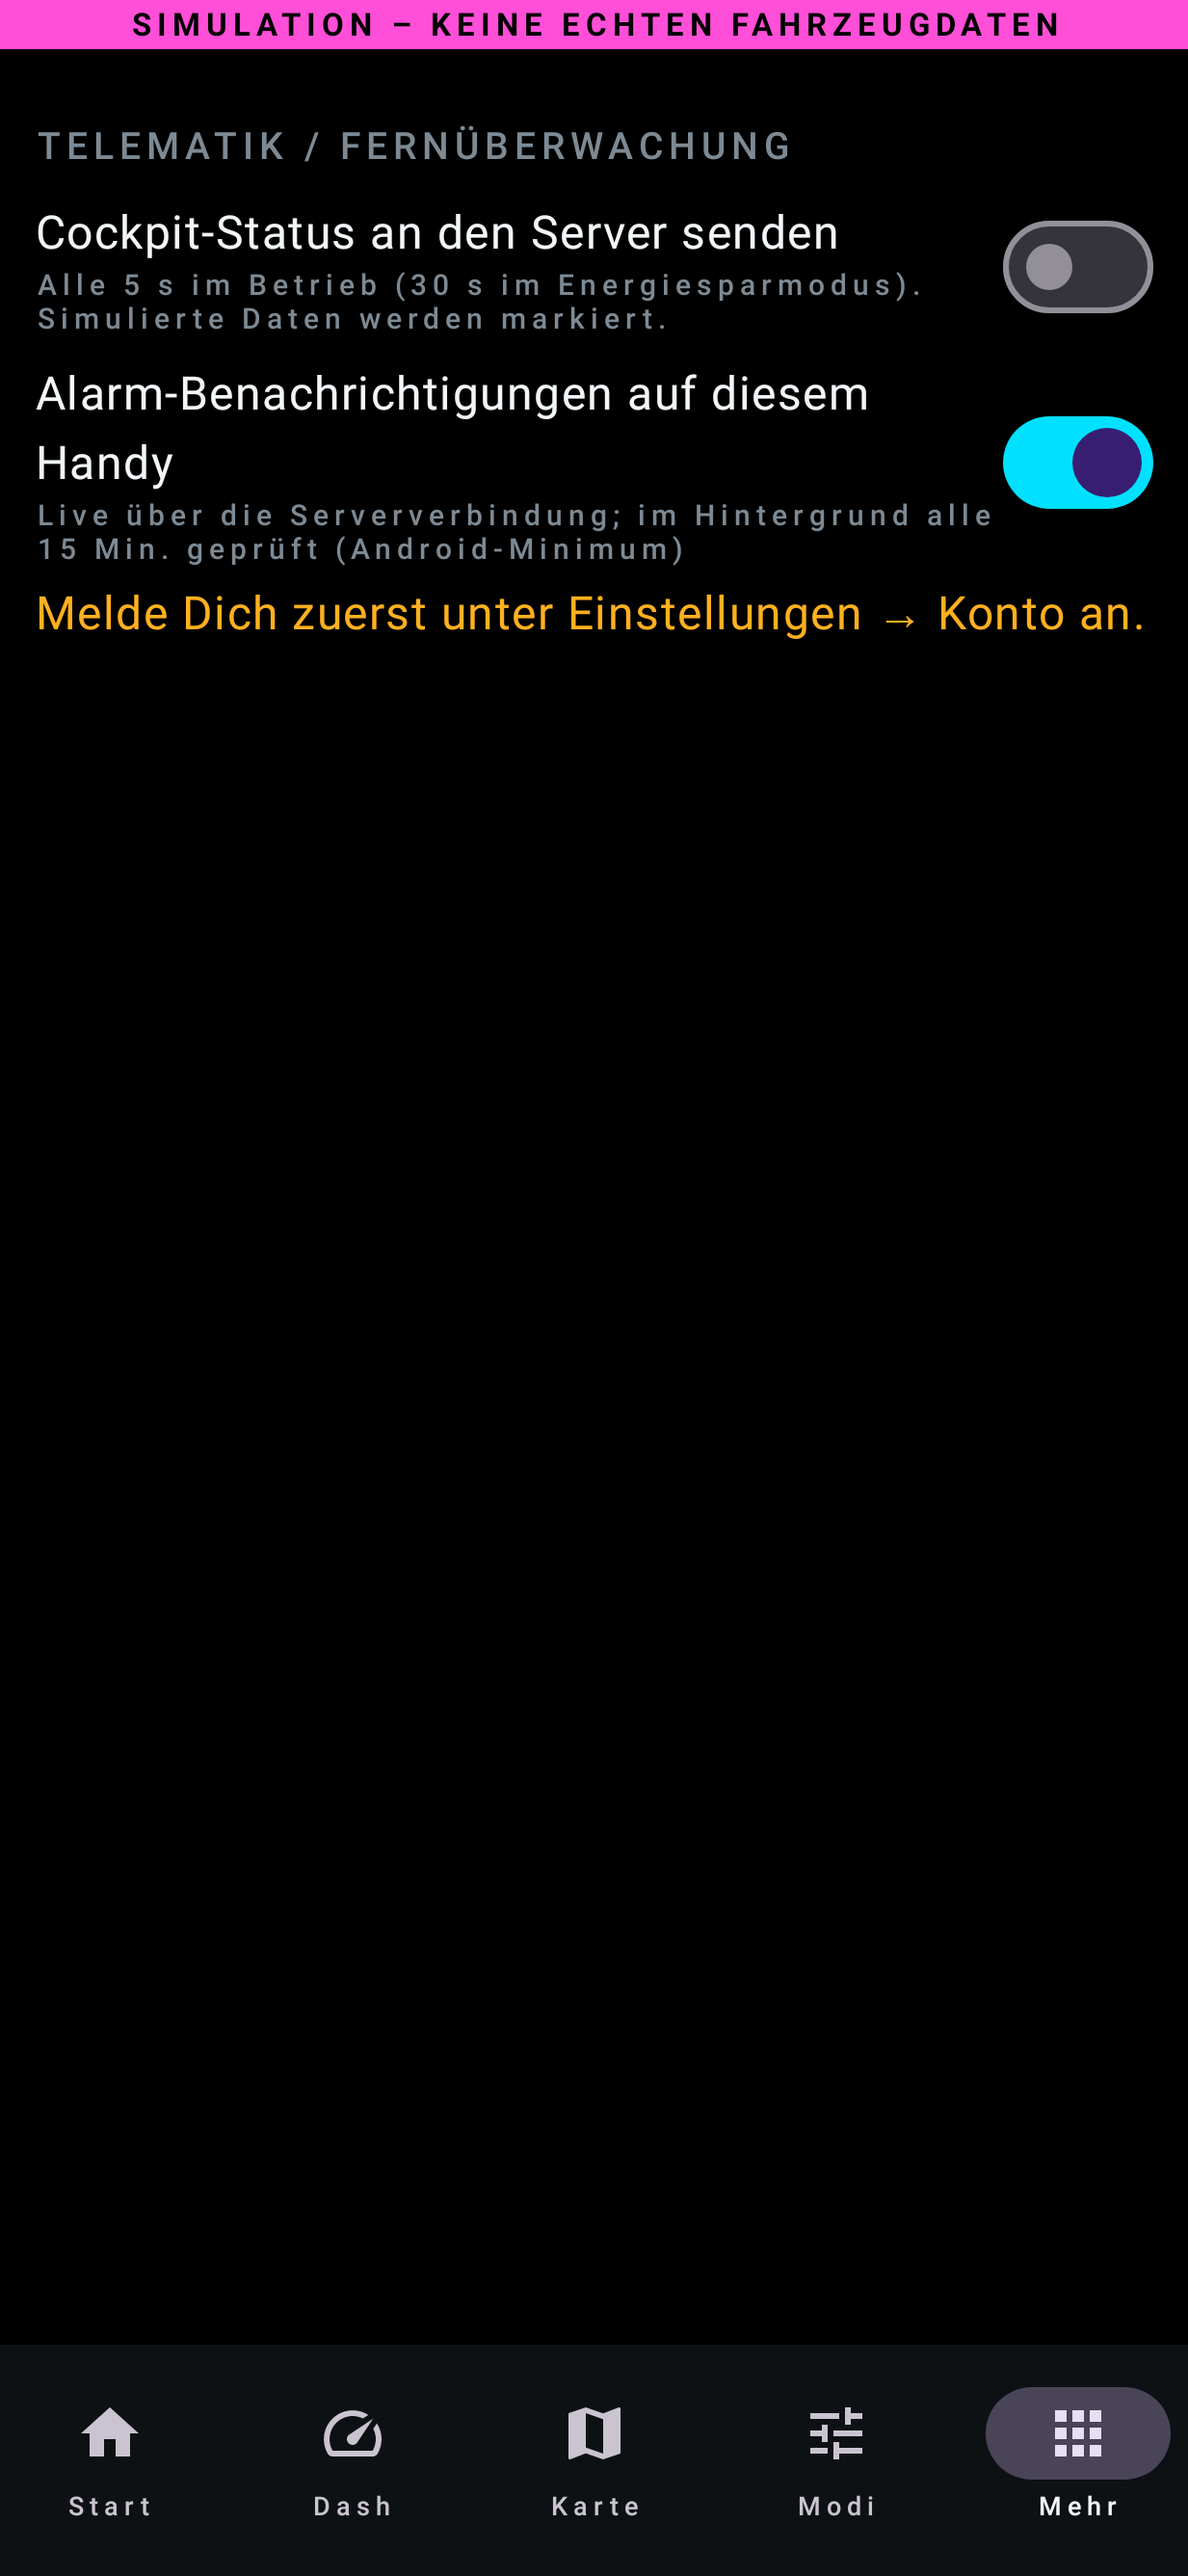
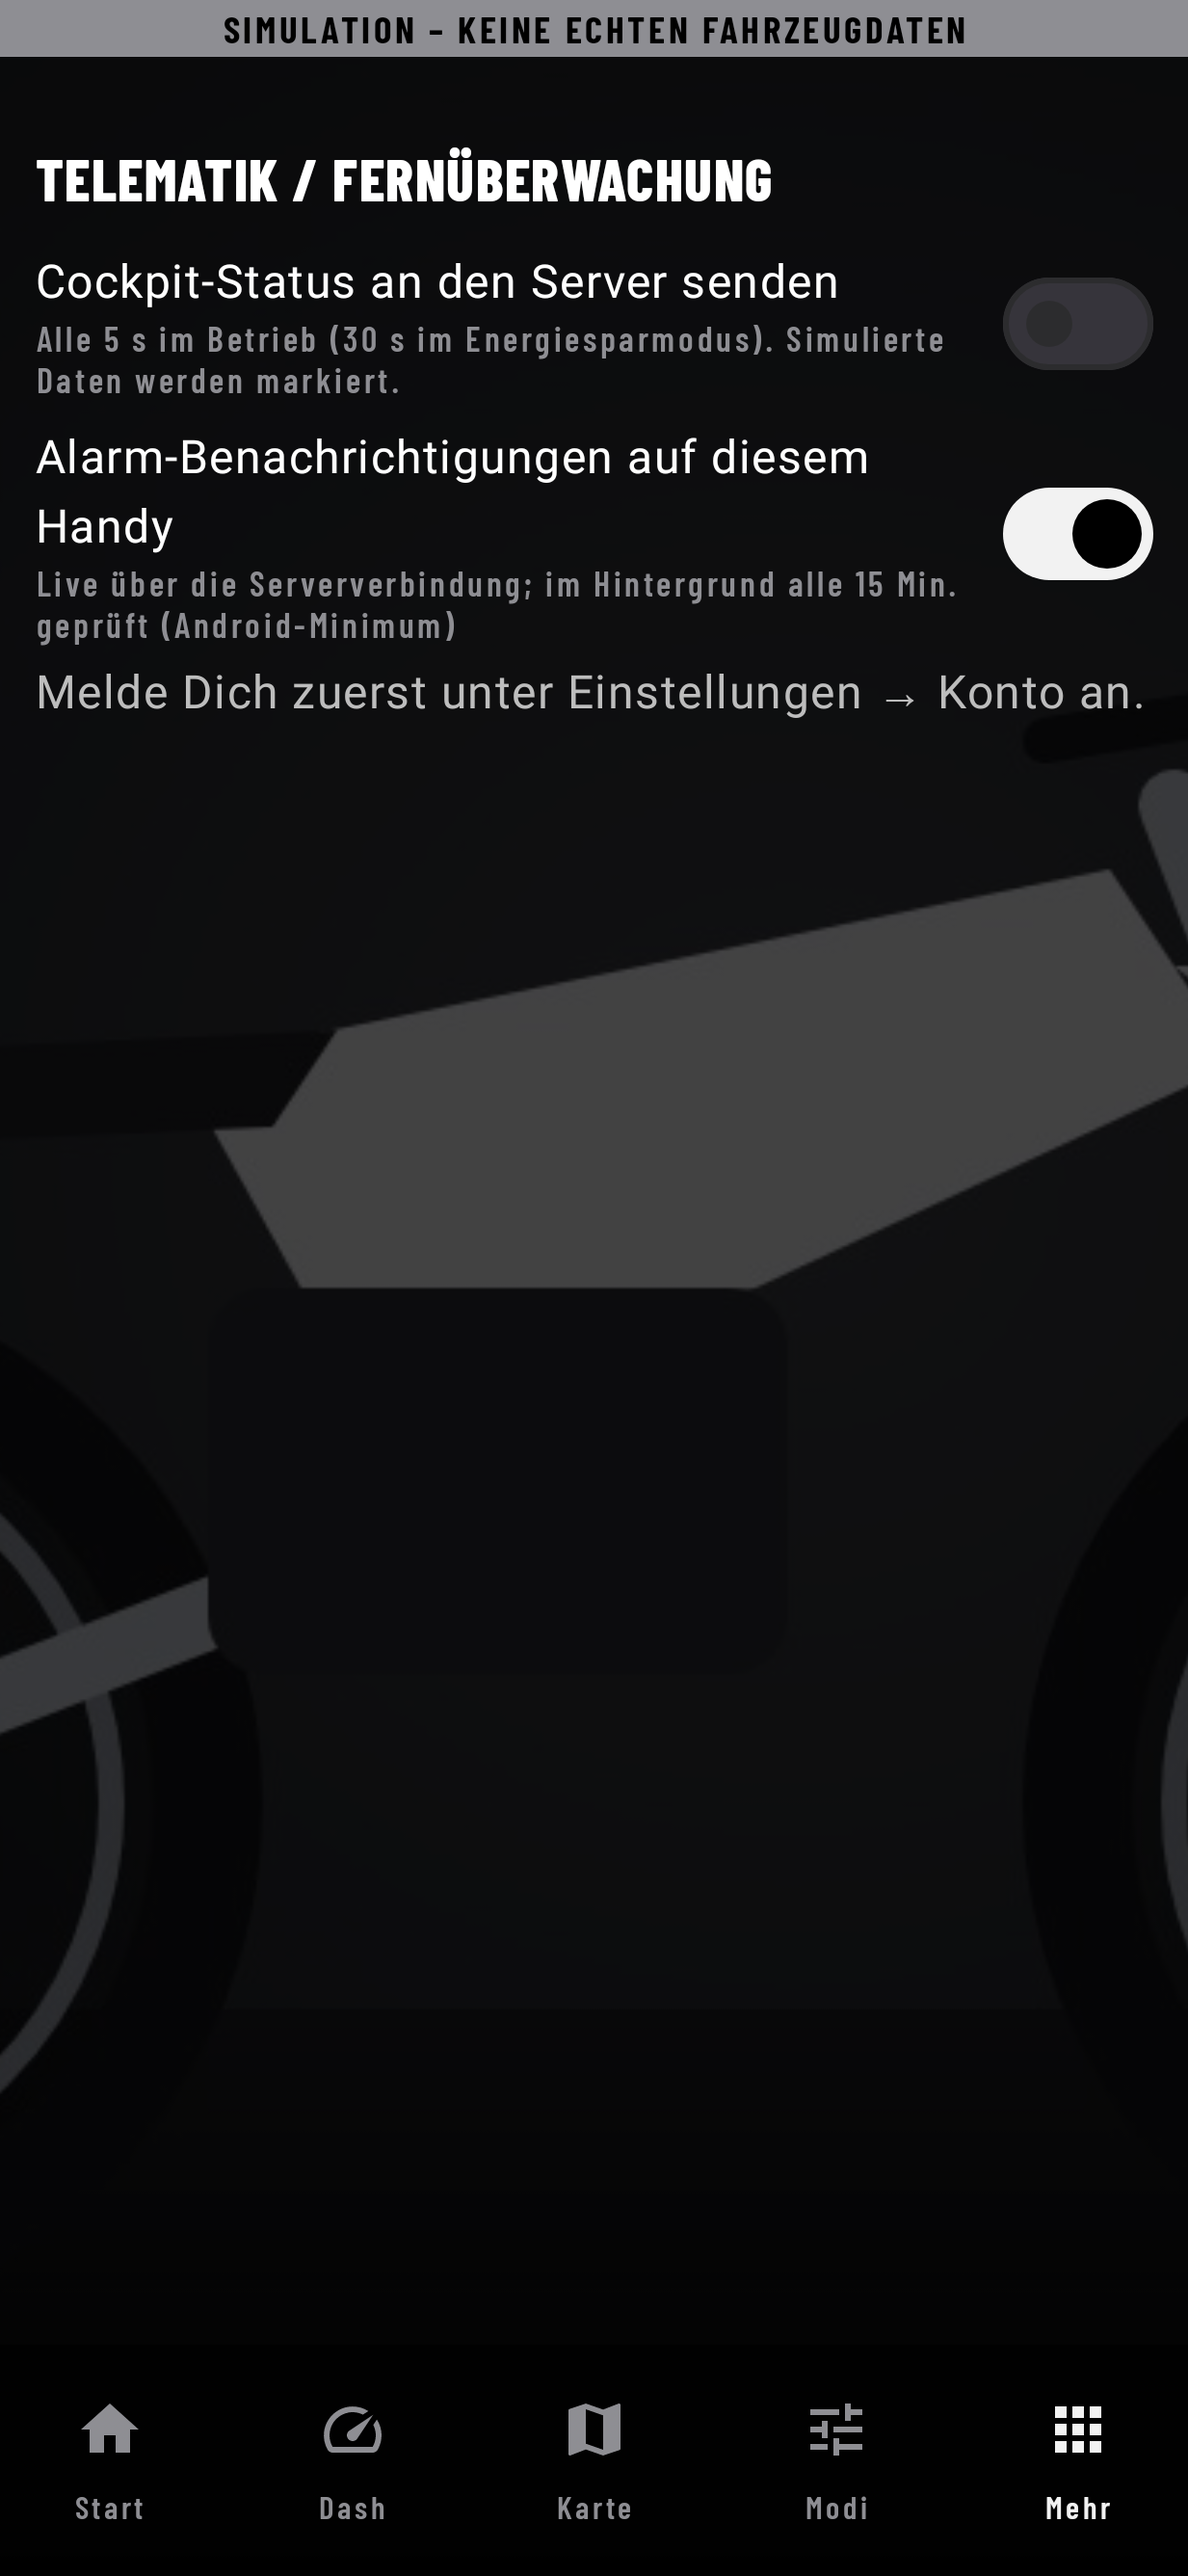
v0.7.0: compact landscape nav rail, lint/test fixes, docs and screenshots
Claude-Session: https://claude.ai/code/session_01AsfBoH3qTEpJXdLAMgQ5WU

diff --git a/kinetic-os/android/app/src/main/kotlin/org/kineticos/app/ui/Root.kt b/kinetic-os/android/app/src/main/kotlin/org/kineticos/app/ui/Root.kt
@@ -98,6 +98,8 @@ fun KineticRoot(activity: MainActivity) {
         val landscape = LocalConfiguration.current.screenWidthDp > LocalConfiguration.current.screenHeightDp
         val status by g.connection.status.collectAsStateWithLifecycle()
         val simulated = (status as? org.kineticos.app.core.ConnStatus.Online)?.simulated == true
+        val primary = listOf(Screen.HOME, Screen.DASH, Screen.MAP, Screen.MODES)
+        var more by remember { mutableStateOf(false) }
         Surface(color = p.bg, modifier = Modifier.fillMaxSize()) {
             // optional user background image, dimmed so the instruments stay readable
             settings.bgImage?.let { bg ->
@@ -108,29 +110,29 @@ fun KineticRoot(activity: MainActivity) {
                 if (simulated) SimBanner()
                 if (landscape) Row(Modifier.weight(1f)) {
                     NavigationRail(containerColor = p.bg.copy(alpha = if (settings.bgImage != null) 0.75f else 1f)) {
-                        Screen.entries.forEach { s -> NavigationRailItem(selected = s == screen, onClick = { screen = s; lastInteraction = System.currentTimeMillis() },
+                        primary.forEach { s -> NavigationRailItem(selected = s == screen, onClick = { screen = s; lastInteraction = System.currentTimeMillis() },
                             icon = { Icon(s.icon, stringResource(s.label)) }, label = { Text(stringResource(s.label), style = labelStyle(9)) },
                             colors = NavigationRailItemDefaults.colors(selectedIconColor = K.Accent, selectedTextColor = K.Accent, indicatorColor = Color.Transparent, unselectedIconColor = p.textDim, unselectedTextColor = p.textDim)) }
+                        NavigationRailItem(selected = screen !in primary, onClick = { more = true }, icon = { Icon(Icons.Filled.Apps, stringResource(R.string.nav_more)) }, label = { Text(stringResource(R.string.nav_more), style = labelStyle(9)) },
+                            colors = NavigationRailItemDefaults.colors(selectedIconColor = K.Accent, selectedTextColor = K.Accent, indicatorColor = Color.Transparent, unselectedIconColor = p.textDim, unselectedTextColor = p.textDim))
                     }
                     Box(Modifier.weight(1f)) { ScreenHost(screen, activity) { screen = it } }
                 } else {
                     Box(Modifier.weight(1f)) { ScreenHost(screen, activity) { screen = it } }
-                    val primary = listOf(Screen.HOME, Screen.DASH, Screen.MAP, Screen.MODES)
-                    var more by remember { mutableStateOf(false) }
                     NavigationBar(containerColor = p.bg.copy(alpha = if (settings.bgImage != null) 0.75f else 1f), tonalElevation = 0.dp) {
                         primary.forEach { s -> NavigationBarItem(selected = s == screen, onClick = { screen = s }, icon = { Icon(s.icon, stringResource(s.label)) }, label = { Text(stringResource(s.label), style = labelStyle(9)) },
                             colors = navColors()) }
                         NavigationBarItem(selected = screen !in primary, onClick = { more = true }, icon = { Icon(Icons.Filled.Apps, stringResource(R.string.nav_more)) }, label = { Text(stringResource(R.string.nav_more), style = labelStyle(9)) }, colors = navColors())
                     }
-                    if (more) AlertDialog(onDismissRequest = { more = false }, confirmButton = {}, containerColor = p.surface, title = { Text(stringResource(R.string.nav_menu)) }, text = {
-                        Column(verticalArrangement = Arrangement.spacedBy(8.dp)) {
-                            Screen.entries.filter { it !in primary }.chunked(2).forEach { row ->
-                                Row(horizontalArrangement = Arrangement.spacedBy(8.dp)) { row.forEach { s -> BigButton(stringResource(s.label), Modifier.weight(1f), selected = s == screen) { screen = s; more = false } } }
-                            }
-                        }
-                    })
                 }
             }
+            if (more) AlertDialog(onDismissRequest = { more = false }, confirmButton = {}, containerColor = p.surface, title = { Text(stringResource(R.string.nav_menu)) }, text = {
+                Column(verticalArrangement = Arrangement.spacedBy(8.dp)) {
+                    Screen.entries.filter { it !in primary }.chunked(2).forEach { row ->
+                        Row(horizontalArrangement = Arrangement.spacedBy(8.dp)) { row.forEach { s -> BigButton(stringResource(s.label), Modifier.weight(1f), selected = s == screen) { screen = s; more = false } } }
+                    }
+                }
+            })
             LockedOverlay()
             if (dimmed) Box(Modifier.fillMaxSize().background(Color.Black.copy(alpha = 0.85f)))
         }

diff --git a/kinetic-os/android/app/src/main/kotlin/org/kineticos/app/ui/Widgets.kt b/kinetic-os/android/app/src/main/kotlin/org/kineticos/app/ui/Widgets.kt
@@ -153,8 +153,9 @@ fun KineticLogo(modifier: Modifier = Modifier, size: Int = 22) {
 
 @Composable
 private fun LogoImage(path: String, modifier: Modifier) {
-    val bmp by produceState<ImageBitmap?>(null, path) {
-        value = kotlinx.coroutines.withContext(kotlinx.coroutines.Dispatchers.IO) { runCatching { android.graphics.BitmapFactory.decodeFile(path)?.asImageBitmap() }.getOrNull() }
+    var bmp by remember(path) { mutableStateOf<ImageBitmap?>(null) }
+    LaunchedEffect(path) {
+        bmp = kotlinx.coroutines.withContext(kotlinx.coroutines.Dispatchers.IO) { runCatching { android.graphics.BitmapFactory.decodeFile(path)?.asImageBitmap() }.getOrNull() }
     }
     bmp?.let { Image(it, null, modifier, contentScale = androidx.compose.ui.layout.ContentScale.Fit) }
 }
@@ -167,8 +168,9 @@ private fun LogoImage(path: String, modifier: Modifier) {
 fun VehiclePhoto(path: String?, modifier: Modifier = Modifier) {
     if (path == null) return
     if (!path.startsWith("/")) { coil.compose.AsyncImage(path, null, modifier, contentScale = androidx.compose.ui.layout.ContentScale.Crop); return }
-    val bmp by produceState<ImageBitmap?>(null, path) {
-        value = kotlinx.coroutines.withContext(kotlinx.coroutines.Dispatchers.IO) {
+    var bmp by remember(path) { mutableStateOf<ImageBitmap?>(null) }
+    LaunchedEffect(path) {
+        bmp = kotlinx.coroutines.withContext(kotlinx.coroutines.Dispatchers.IO) {
             runCatching {
                 val o = android.graphics.BitmapFactory.Options().apply { inJustDecodeBounds = true }
                 android.graphics.BitmapFactory.decodeFile(path, o)

diff --git a/kinetic-os/android/app/src/main/kotlin/org/kineticos/app/ui/screens/DashScreen.kt b/kinetic-os/android/app/src/main/kotlin/org/kineticos/app/ui/screens/DashScreen.kt
@@ -172,7 +172,7 @@ fun DashScreen(go: (Screen) -> Unit) {
                 BatteryBar(soc.value, soc.quality, Modifier.fillMaxWidth())
                 Text("${qTag(soc.quality)} · ${range?.let { stringResource(R.string.dash_range_est, it) } ?: stringResource(R.string.dash_range_na)}", style = labelStyle(10), color = p.textDim)
                 Spacer(Modifier.height(6.dp))
-                settings.dashTiles.take(4).chunked(2).forEach { row ->
+                settings.dashTiles.take(2).chunked(2).forEach { row ->
                     Row { row.forEach { key -> DashTile(key, s, engine, simulated, Modifier.weight(1f)) }; repeat(2 - row.size) { Spacer(Modifier.weight(1f)) } }
                 }
                 if ((s?.faultCode ?: 0) != 0) Pill(stringResource(R.string.dash_fault, (s?.faultName ?: s?.faultCode).toString()), K.Danger, Modifier.padding(4.dp))

diff --git a/kinetic-os/android/app/src/test/kotlin/org/kineticos/app/RobolectricTests.kt b/kinetic-os/android/app/src/test/kotlin/org/kineticos/app/RobolectricTests.kt
@@ -169,7 +169,7 @@ class UiSimulationTest {
         // locked: ride modes are refused by the vehicle, output stays disabled
         assertTrue(runBlocking { g.applyProfile(RideProfile.RACE) }.contains("locked"), "mode while locked")
         compose.setContent { KineticTheme(ThemeMode.NIGHT, true) { androidx.compose.foundation.layout.Box { DashScreen {}; LockedOverlay() } } }
-        compose.waitUntil(10_000) { compose.onAllNodesWithText("VEHICLE LOCKED").fetchSemanticsNodes().isNotEmpty() }
+        compose.waitUntil(10_000) { compose.onAllNodesWithText("LOCKED").fetchSemanticsNodes().isNotEmpty() }
         // someone pushes the bike → tamper flag → warning
         sim.externalErpm = 2000.0
         waitFor(30_000) { g.connection.scriptStatus.value?.lock?.tamper == true }

diff --git a/kinetic-os/TEST_RESULTS.md b/kinetic-os/TEST_RESULTS.md
@@ -13,10 +13,10 @@ Three levels, kept strictly apart:
 | core:vehicle | 27 | ✅ | **+ neutral + parental-lock codec and gate rules, curve point editor** · **+ lock protocol bytes, lock gate rules** · **+ VESC setup check, drivetrain import, on-vehicle script codec (byte-exact vs protocol.md), script plans** · SafetyGate (never exceeds backup, RAM-only, standstill rule, refusals, locked assistance, derating, restore), throttle curves, validation |
 | core:racing | 35 | ✅ | geo, gate crossings, laps 1/10 Hz, sectors, ghost, accel, leaderboard |
 | core:export | 26 | ✅ | CSV/JSON/GPX round trips, XXE rejection, ride summary, **CSV formula-injection guard** |
-| app (JVM + Robolectric) | 28 | ✅ | **+ E2E neutral & parental lock via emulated script, gallery incl. home + statistics** · **+ E2E anti-theft lock: PIN, refusal while moving, modes blocked, tamper → warning, lockout** · **+ E2E: simulator with emulated kinetic.lisp → mode applied via script, setup check renders** · REST/WS (reconnect), telematics mapping, Room recorder, route guidance, **OSRM parsing + turn-by-turn**, **alert notifications (dedupe, channel)**, **overlay timeline + renderer**, Compose UI with simulator |
+| app (JVM + Robolectric) | 29 | ✅ | **+ E2E neutral & parental lock via emulated script, gallery incl. home + statistics** · **+ E2E anti-theft lock: PIN, refusal while moving, modes blocked, tamper → warning, lockout** · **+ E2E: simulator with emulated kinetic.lisp → mode applied via script, setup check renders** · REST/WS (reconnect), telematics mapping, Room recorder, route guidance, **OSRM parsing + turn-by-turn**, **alert notifications (dedupe, channel)**, **overlay timeline + renderer**, Compose UI with simulator |
 | server (vitest) | 52 | ✅ | **+ theft alert / locked movement watch, migration 002 against PostGIS** · incl. **/route OSRM proxy (7 tests)** and integration against postgis/postgis:16-3.4 |
 | LispBM (real LispBM 0.41 interpreter) | 302 + 10 smoke | ✅ | **+ immobilizer: EEPROM persistence over simulated reboot, output re-assert, PIN/lockout, tamper** · ceiling, mode accept/reject rules, clamping, derating, rate limiter, status byte layout, protocol v1/v2 |
-| **Total** | **526** (159 Android + 55 server + 302 LispBM + 10 smoke + 1 instrumented) | ✅ | 2026-11-25 full run (v0.6.0, lint 0 errors incl. FR/IT/ES/SV); gallery of all screens in `docs/screenshots/gallery/` (19 images); bugs found by this run and fixed: toast off main thread, stale values after reconnect, ride-recorder flush race |
+| **Total** | **528** (160 Android + 55 server + 302 LispBM + 10 smoke + 1 instrumented) | ✅ | 2026-11-25 full run (v0.7.0, lint 0 errors); gallery of all screens in `docs/screenshots/gallery/` (portrait + landscape, 40 images); bugs found by this run and fixed: toast off main thread, stale values after reconnect, ride-recorder flush race |
 
 Bugs found by these tests and fixed: decoder stall on corrupted length field; SafetyGate refusing ECO from stock while moving;
 WebSocket not reconnecting after server-initiated close; simulated BMS values tagged MEAS; meaningless wheel speed without vehicle profile.

diff --git a/kinetic-os/FEATURE_MATRIX.md b/kinetic-os/FEATURE_MATRIX.md
@@ -143,6 +143,10 @@ erforderlich · **NS** = Nicht unterstützt.
 | Diebstahlsperre (Bike Lock) | siehe oben |
 | Bildschirmhelligkeit in der App | IH |
 | Sprachen DE/EN/FR/IT/ES/SV | IT (Lint) – FR/IT/ES/SV maschinell, Review nötig |
+| Eigenes Design-System: nur Schwarz → Weiß (Graustufen), Schrift Barlow Condensed (OFL), eigenes K-Logo | IT (Render) |
+| Querformat (Lenkerhalterung): 3-spaltiges Cockpit, geteilte Startseite; Ausrichtung Quer/Hoch/Auto | IT (Render quer + hoch) |
+| Personalisierung: Hintergrundbild + Abdunklung, eigenes Logo, eigener Name, Akzent-Helligkeit | IT (Render) / IH (Bildauswahl) |
+| Sperrbildschirm: animierter Sicherheitsring, Alarmbalken bei Bewegung, PIN-Feld direkt auf dem Bildschirm | IT (Render, Simulator-E2E) |
 | Firmware-Update über WLAN | bewusst nicht (Brick-Risiko) – VESC Tool verwenden |
 | Map-Switch-LED | nicht anwendbar (Stark-Hardware) |
 
@@ -155,4 +159,4 @@ erforderlich · **NS** = Nicht unterstützt.
 ## Was NICHT nachgebildet wird
 Originale Stark-Grafiken, Logos, Schriften, Fahrzeugdarstellung, Menütexte oder Quellcode (urheber-/markenrechtlich geschützt,
 keine APK bereitgestellt). Das UI ist eine eigenständige Gestaltung nach demselben Bedienkonzept (großes Tacho, Modus-Schnellwahl,
-dunkles Cockpit).
+dunkles Cockpit). Simulierte Daten werden graustufig, aber immer mit „SIM“-Banner und -Markierung angezeigt.

diff --git a/kinetic-os/PROGRESS.md b/kinetic-os/PROGRESS.md
@@ -26,3 +26,4 @@
 | 2026-11-25 | German UI (subagent), code review (subagent, 19 findings) → safety fixes, PIN lockout persisted (subagent), release signing + ABI splits | all suites green |
 | 2026-11-25 | Full test run + gallery (17 screens), emulator, web dashboard with data; swipe mode change + curve point editor | all green; 3 bugs found & fixed |
 | 2026-11-25 | Stark feature set from user images: home, stats (airtime/g-force), M1–M5 with PS/kW, riding time, neutral, parental lock, brightness, FR/IT/ES/SV (subagent), VargLink invite links | all green (see TEST_RESULTS) |
+| 2026-11-25 | Redesign (greyscale, Barlow Condensed, own K mark), landscape layouts, personalisation (background, logo, name, accent), new lock screen with PIN pad | see TEST_RESULTS |

diff --git a/kinetic-os/KNOWN_ISSUES.md b/kinetic-os/KNOWN_ISSUES.md
@@ -33,3 +33,5 @@
 25. **FR/IT/ES/SV translations** were machine-made and need review by native speakers; some long labels may be truncated.
 26. **Parental lock speed limit** needs correct wheel/gear data (VESC setup); without it only the power limit is available.
 27. **Power display in PS/kW** in ride modes is derived from the backed-up `l_watt_max` of the controller, not a dyno value.
+28. **Greyscale UI:** status is shown by brightness, labels and icons instead of colour (user wish). Simulation is still always marked with the SIM banner/tags. Map lines are grey/white and can be hard to see on light map styles.
+29. **Custom logo/background** images are stored only on the phone (app storage); they are not synced to the server or other phones.

diff --git a/kinetic-os/README.md b/kinetic-os/README.md
@@ -25,3 +25,4 @@ Start here: [docs/INSTALL.md](docs/INSTALL.md) · [FEATURE_MATRIX.md](FEATURE_MA
 * Nothing in this repository has been validated on a real vehicle yet. Read [docs/HARDWARE.md](docs/HARDWARE.md) before riding.
 
 License: GPL-3.0 (same as VESC firmware/VESC Tool from which protocol definitions were derived).
+Font: Barlow Condensed © The Barlow Project Authors, SIL Open Font License 1.1 (`docs/licenses/BarlowCondensed-OFL.txt`).
